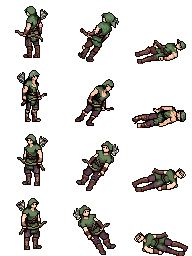
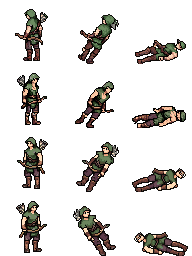
O heroi para de flutuar, e a camera para de nascer no canto do mundo
Tres consertos que sairam das observacoes do dono jogando com a arte nova.

1. A REGRA DO CHAO DISCORDAVA DO OLHO.

O conversor media a sola como "ultima linha com >=3 px opacos"; o olho ve a
ultima linha com >=1 px. No south-passo.png do Arqueiro as duas discordavam
(56 contra 57), o desvio virava 4, estourava o ALIGN_MAX=3 e o quadro era
REJEITADO inteiro. Como o outro quadro do ciclo era alinhado, ele saltava 3 px
a cada passo -- e so indo para o sul. Feiticeiro e Assassino tinham a mesma
discordancia, de 1 px.

MIN_PX_LINHA passa a 1, e nao deve voltar a 3 "por robustez": quem protege
contra medicao maluca e o ALIGN_MAX. Verificado: todos os quadros de walk,
pose e attack, 4 classes x 4 direcoes, fecham em chao=60.

2. A MORTE PASSA A SER ALINHADA PELO PRIMEIRO QUADRO.

Ela nao era alinhada de jeito nenhum, e havia razao: num corpo deitado,
"ultima linha com massa" e o corpo, nao o pe. Mas o preco era visivel -- o
andar do Arqueiro e alinhado e a morte nao era, entao ao morrer ele PULAVA
3 px para cima antes de tombar.

Agora o dy sai do quadro 0 (o unico ainda de pe, onde a medicao quer dizer
"sola") e vale para a sequencia. Cada quadro leva so o quanto CABE: o cadaver
do Arqueiro ja encosta no rodape, e o que sai da celula esta perdido. Entao o
quadro em pe desce 3, o do meio desce 2 e o cadaver nao desce. Encolher a
queda em 3 px ao longo de tres quadros terminais ninguem ve; cortar o corpo,
sim.

3. A CAMERA NASCIA NO CANTO DO MUNDO.
[…]

diff --git a/client/src/main.ts b/client/src/main.ts
@@ -4206,6 +4206,12 @@ async function startGame(playerName: string, charClass: PlayerClass, gender: Gen
     cancelarRota();
   });
 
+  /**
+   * A câmera já travou no herói? Enquanto for `false` ela SALTA para o alvo em
+   * vez de suavizar — ver o bloco de câmera dentro do ticker.
+   */
+  let cameraSeguindo = false;
+
   // Loop de render ---------------------------------------------------------
   app.ticker.add(() => {
     if (myFloor !== renderedFloor) rebuildFloor(myFloor);
@@ -4383,8 +4389,29 @@ async function startGame(playerName: string, charClass: PlayerClass, gender: Gen
     const cy = self ? self.container.y : map.spawn.y * TS;
     const targetX = app.screen.width / 2 - (cx + TS / 2) * ZOOM;
     const targetY = app.screen.height / 2 - (cy + TS / 2) * ZOOM;
-    world.x += (targetX - world.x) * 0.2;
-    world.y += (targetY - world.y) * 0.2;
+    // 🔴 A ENTRADA NÃO PODE SER SUAVIZADA, e são dois motivos separados.
+    //
+    // 1. `world` nasce em (0,0), que é o CANTO DO MUNDO, não o herói. Suavizar a
+    //    partir dali é atravessar o mapa inteiro a 20% por quadro — e enquanto
+    //    isso `atualizaChunks` monta e joga fora cenário ao longo de todo o
+    //    caminho, porque é a câmera que decide o que existe.
+    // 2. Pior: `app.screen.width` é 0 enquanto o `#viewport` ainda não tem
+    //    tamanho (a lista de personagens aparece antes do mundo). Alvo calculado
+    //    com tela de largura 0 está errado, e suavizar até ele grava o erro.
+    //
+    // Por isso a câmera SALTA — e continua saltando — até o herói existir de
+    // verdade; a suavização só começa depois disso, que é quando ela serve para
+    // o que foi feita: acompanhar quem anda.
+    if (app.screen.width > 0 && app.screen.height > 0) {
+      if (cameraSeguindo) {
+        world.x += (targetX - world.x) * 0.2;
+        world.y += (targetY - world.y) * 0.2;
+      } else {
+        world.x = targetX;
+        world.y = targetY;
+        cameraSeguindo = !!self; // o herói apareceu: a partir daqui, suaviza
+      }
+    }
 
     // Cenário sob demanda: monta o que entrou na tela, joga fora o que saiu.
     // Depois da câmera de propósito — é a posição DELA que decide o que existe.

diff --git a/docs/HANDOFF.md b/docs/HANDOFF.md
@@ -1,17 +1,11 @@
-# Handoff — estado do projeto em 2026-08-10
+# Handoff — estado do projeto em 2026-08-11
 
-## ⏸ ONDE PARAMOS — retomar 11/08 pela manhã
+## ⏸ ONDE PARAMOS — três consertos prontos, NENHUM visto em tela
 
-A arte nova **está ligada no jogo** e o dono **jogou com ela**. Ele tem **várias
-observações anotadas** e a sessão acabou antes de listá-las.
-
-🔴 **PRIMEIRA COISA AMANHÃ: pedir a lista de observações dele.** Não comece a
-consertar por conta própria — o que ele viu jogando vale mais que qualquer
-suspeita minha, e esta sessão inteira mostrou que o que quebra em arte só
-aparece jogando (o quadrado preto na árvore, o herói invisível na entrada, a
-espada que não subia, o corpo que saía do quadro — nenhum tinha teste possível).
-
-**Como subir para testar** (a conta do dono no banco local é `Frank`):
+🔴 **PRIMEIRA COISA: subir o jogo e olhar.** Os três consertos abaixo foram
+verificados por **medição** e por 445 testes, e nenhuma das duas coisas prova
+nada em arte — foi a lição da sessão inteira de 10/08. O dono disse que testaria
+depois.
 
 ```bash
 ELYSIA_DEV_ACCOUNT=Frank VITE_DEV_ACCOUNT=Frank npm run dev:test
@@ -22,18 +16,56 @@ ELYSIA_DEV_ACCOUNT=Frank VITE_DEV_ACCOUNT=Frank npm run dev:test
 ⚠ **Backup do banco antes de entrar.** Existe um de 10/08 23:48 em
 `server/data/elysia-backup-20260810-2348.db`.
 
-**Onde eu suspeitaria, se as observações forem sobre a arte:**
+**O que olhar, e o que deveria ter mudado:**
 
-1. Herói **enterrado ou flutuando** → `FEET_Y` (60, em `heroes.ts`) discordando
-   do `GROUND_Y` (60, em `tools/pixellab2strip.mjs`). São o mesmo número em dois
-   arquivos.
-2. **Cadáver deslocado** na morte → é o único caso que **não** passa pelo
-   alinhamento de chão, de propósito (num corpo deitado, "última linha com massa"
-   é o corpo, não o pé).
-3. **Golpe fraco** no Arqueiro e no Assassino → conhecido e registrado; o gesto
-   sai curto. O Knight é o que ficou melhor.
-4. **Herói fora do enquadramento ao entrar** → 🔴 **bug ANTIGO, não é da arte
-   nova.** Já estava confirmado por A/B em 09/08. Basta clicar para andar.
+| O quê | Antes | Agora |
+|---|---|---|
+| Arqueiro andando **para o sul** | saltava 3 px a cada passo | pé cravado no chão |
+| Feiticeiro e Assassino andando | tremiam 1 px | idem |
+| Qualquer classe **morrendo** | o Arqueiro pulava 3 px para cima ao morrer | tomba sem pulo |
+| **Entrar no mundo** | o herói quase sempre fora do enquadramento | câmera já nasce nele |
+
+### 🔴 O que NÃO foi consertado, e por quê
+
+1. **Golpe fraco do Arqueiro e do Assassino.** Duas hipóteses testadas, 6
+   gerações gastas, as duas falharam — estão inteiras no **beco nº 7** de
+   `tools/pixellab/gerar-classe.mjs`. Abrir a máscara **destrói o personagem**
+   (voltou outro sujeito, de capa e espada, sem arco); mudar o texto do gesto
+   **não move nada**. Se houver saída, é **outro endpoint, não outro prompt** —
+   não gaste geração repetindo prompt.
+2. **O cajado do Feiticeiro boia no ar** na morte para leste e oeste. Está
+   gravado no PNG de origem, então nenhum conversor desfaz. ⚠ `SO_MORTE=1`
+   regenera **as quatro direções**, e o sul e o norte dele estão bons — regerar
+   sem escopar aposta arte boa para consertar arte ruim. Escopar exige um
+   `SO_DIRECOES` no gerador.
+3. **`idle` e `hurt`** continuam faltando no pack, com as quedas conhecidas.
+
+### 🔴 O REPOSITÓRIO É PÚBLICO — e os documentos assumem que não
+
+Verificado em 11/08 pela API do GitHub **sem autenticação**: `private: False`,
+desde 29/07. O `.gitignore` deste repositório diz, em texto, que os assets são
+versionados *"de propósito: ele é PRIVADO, então versioná-los não é
+redistribuição pública"*, e traz um aviso — *"se algum dia este repositório
+virar PÚBLICO, revise as licenças ANTES"* — que **já venceu**.
+
+O `CREDITS.md` lista dois packs, e os dois têm restrição escrita: o tile set da
+redspark é **"não revender"**, o pack de 100 árvores é **"Não redistribuir"**. E
+está desatualizado — não lista os cinco packs de classe, os cristais/árvores da
+CraftPix nem o MiniWorld.
+
+⚠ **O conserto barato é tornar o repositório privado**, o que restaura a
+premissa sem custo de trabalho. A decisão é do dono e do irmão. Enquanto isso:
+**nunca commitar segredo aqui** — não existe "privado" para cair de volta.
+
+⚠ **O token do PixelLab mora em `.env` na raiz** (ignorado pelo git, linha 5).
+Carregue **dentro do mesmo comando**, porque o shell não guarda estado entre
+chamadas:
+
+```powershell
+$env:PIXELLAB_TOKEN = ((Get-Content .env | Select-String '^PIXELLAB_TOKEN=') -replace '^PIXELLAB_TOKEN=',''); node tools/pixellab/gerar-classe.mjs archer
+```
+
+💳 **397 de 2000 gerações** usadas em agosto.
 
 ---
 

diff --git a/docs/HISTORICO.md b/docs/HISTORICO.md
@@ -9,6 +9,60 @@ decisões de design ficaram travadas por teste.
 
 ---
 
+## 2026-08-11 — O herói parou de flutuar, e a câmera parou de nascer no canto
+
+**Onde mora:** `tools/pixellab2strip.mjs` (alinhamento) · o bloco de câmera no
+ticker de `client/src/main.ts` · `tools/pixellab/gerar-classe.mjs` (beco nº 7).
+
+**A regra do chão discordava do olho.** O conversor media a sola como "última
+linha com **≥3 px** opacos" (`MIN_PX_LINHA`). O olho vê a última linha com **≥1
+px**. No `south-passo.png` do Arqueiro as duas discordavam — 56 contra 57 — e a
+discordância tinha um efeito desproporcional: o desvio virava 4, estourava o
+`ALIGN_MAX = 3` e o quadro era **rejeitado inteiro**, ficando 3 px acima do chão.
+Como o outro quadro do ciclo era alinhado, ele **saltava 3 px a cada passo**,
+e só indo para o sul. Feiticeiro e Assassino tinham a mesma discordância, de 1 px.
+
+🔴 **`MIN_PX_LINHA` agora é 1, e não deve voltar a 3 "por robustez".** Quem
+protege contra medição maluca é o `ALIGN_MAX`, que rejeita o deslocamento
+inteiro; a constante só decide onde o desenho **acaba**, e para isso a resposta
+certa é "onde o olho vê que acaba". Verificado depois: todos os quadros de
+`walk`, `pose` e `attack`, 4 classes × 4 direções, fecham em `chao = 60`.
+
+**A morte agora é alinhada pelo primeiro quadro.** Antes ela não era alinhada de
+jeito nenhum, e havia razão: `chaoDe` acha a última linha com massa, e num corpo
+**deitado** isso é o corpo, não o pé. Mas o preço era visível — o andar do
+Arqueiro é alinhado e a morte não era, então no instante em que ele morria o
+herói **pulava 3 px para cima** antes de tombar.
+
+A saída é que o `dy` sai do **quadro 0**, o único que ainda está de pé e no qual
+a medição quer dizer "sola", e vale para a sequência inteira. 🔴 **Cada quadro
+leva só o quanto cabe:** o cadáver do Arqueiro já encosta no rodapé da célula, e
+o que sai da célula está perdido (o `blit` descarta). Então o quadro em pé desce
+3, o do meio desce 2 e o cadáver não desce. Encolher a queda em 3 px ao longo de
+três quadros terminais ninguém vê; cortar o corpo, sim.
+
+**A câmera nascia no canto do mundo.** `world` começa em (0,0) e o ticker só
+sabia suavizar — 20% por quadro, atravessando o mapa inteiro até o herói, com
+`atualizaChunks` montando e descartando cenário ao longo de todo o caminho,
+porque é a câmera que decide o que existe. Pior: `app.screen.width` é **0**
+enquanto o `#viewport` não tem tamanho (a lista de personagens aparece antes do
+mundo), e alvo calculado com tela de largura 0 está errado.
+
+Agora a câmera **salta** — e continua saltando — até o herói existir de verdade;
+a suavização só começa depois, que é quando ela serve para o que foi feita.
+⚠ **Não foi visto em tela.** Isso elimina dois estados iniciais comprovadamente
+errados, mas o sintoma relatado ("o herói não aparece até você clicar") só se
+confirma jogando.
+
+**O golpe do Arqueiro e do Assassino resistiu a duas hipóteses** — as duas estão
+inteiras no beco nº 7 de `gerar-classe.mjs`, com máscaras e prompts exatos.
+Custaram 6 gerações e o saldo é conhecimento: abrir a máscara **destrói o
+personagem** (voltou outro sujeito, de capa e espada, sem arco), e mudar o texto
+do gesto **não move nada** (PNG diferente byte a byte, caixa de alpha idêntica
+nas quatro direções). Se houver saída, é outro endpoint — não outro prompt.
+
+---
+
 ## 2026-08-09 — Arte HD das quatro classes, e o golpe pela arma
 
 **Onde mora:** `tools/frames2strip.mjs` (conversor) · `client/src/heroes.ts`
